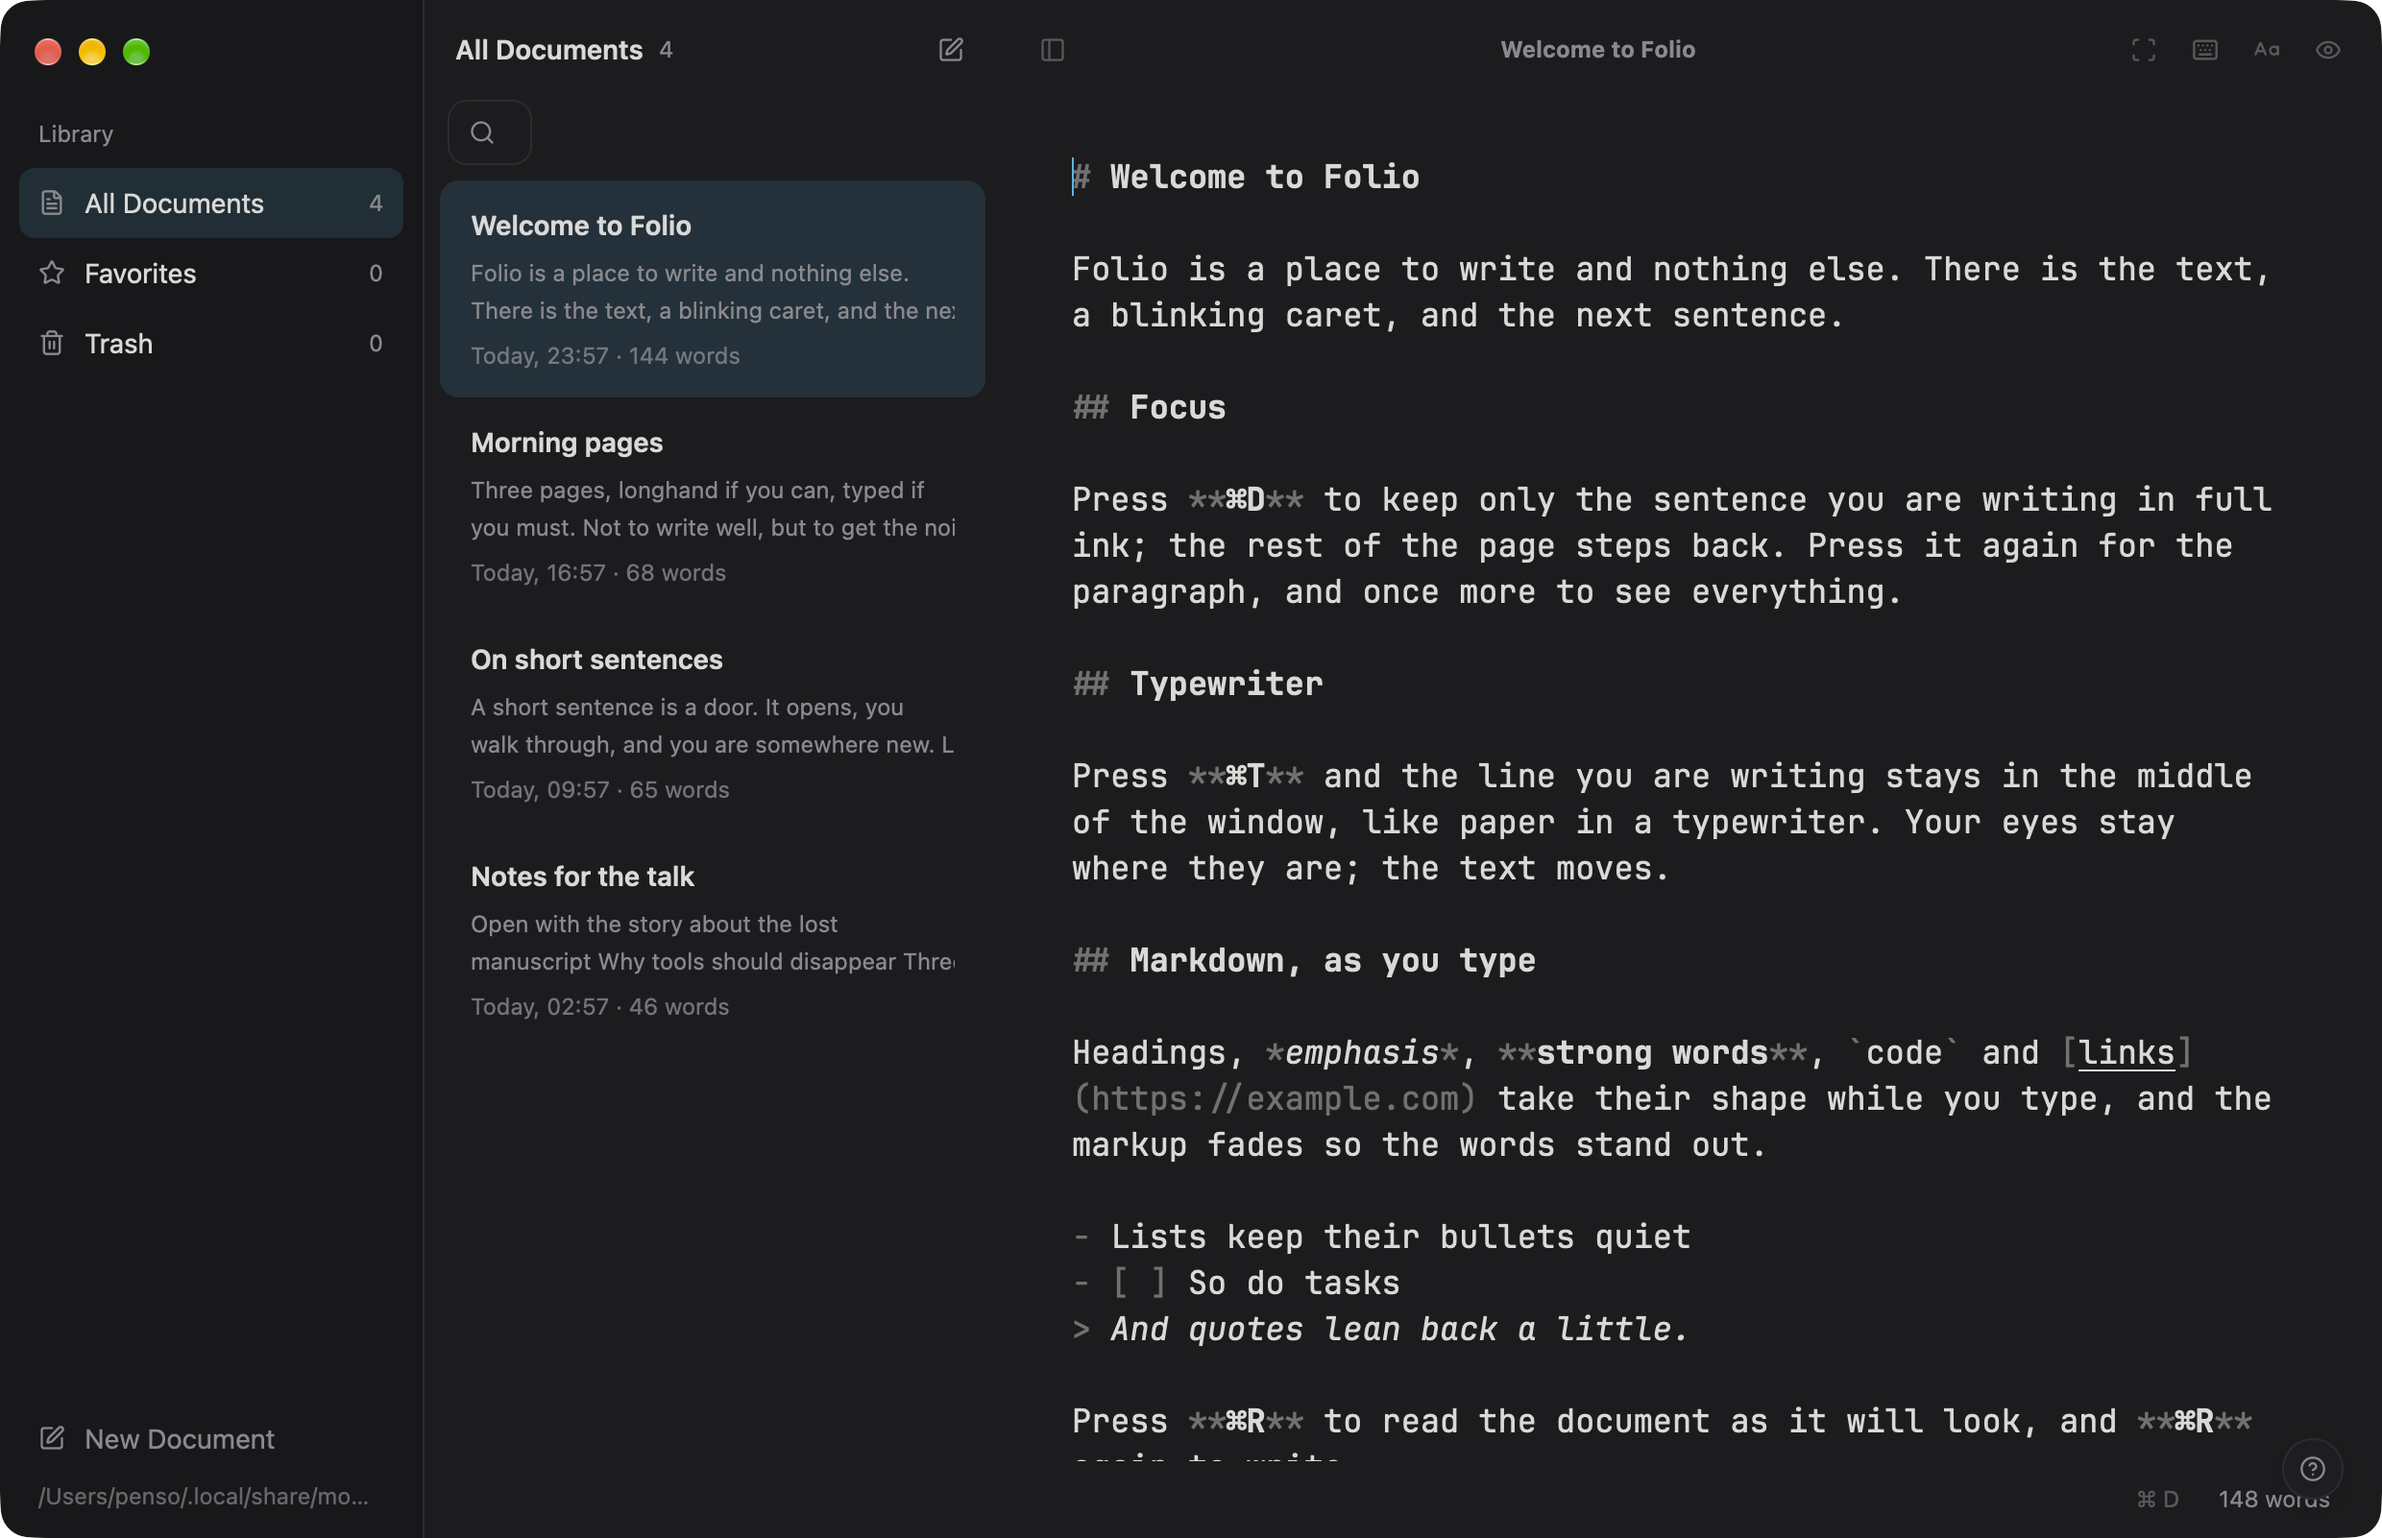
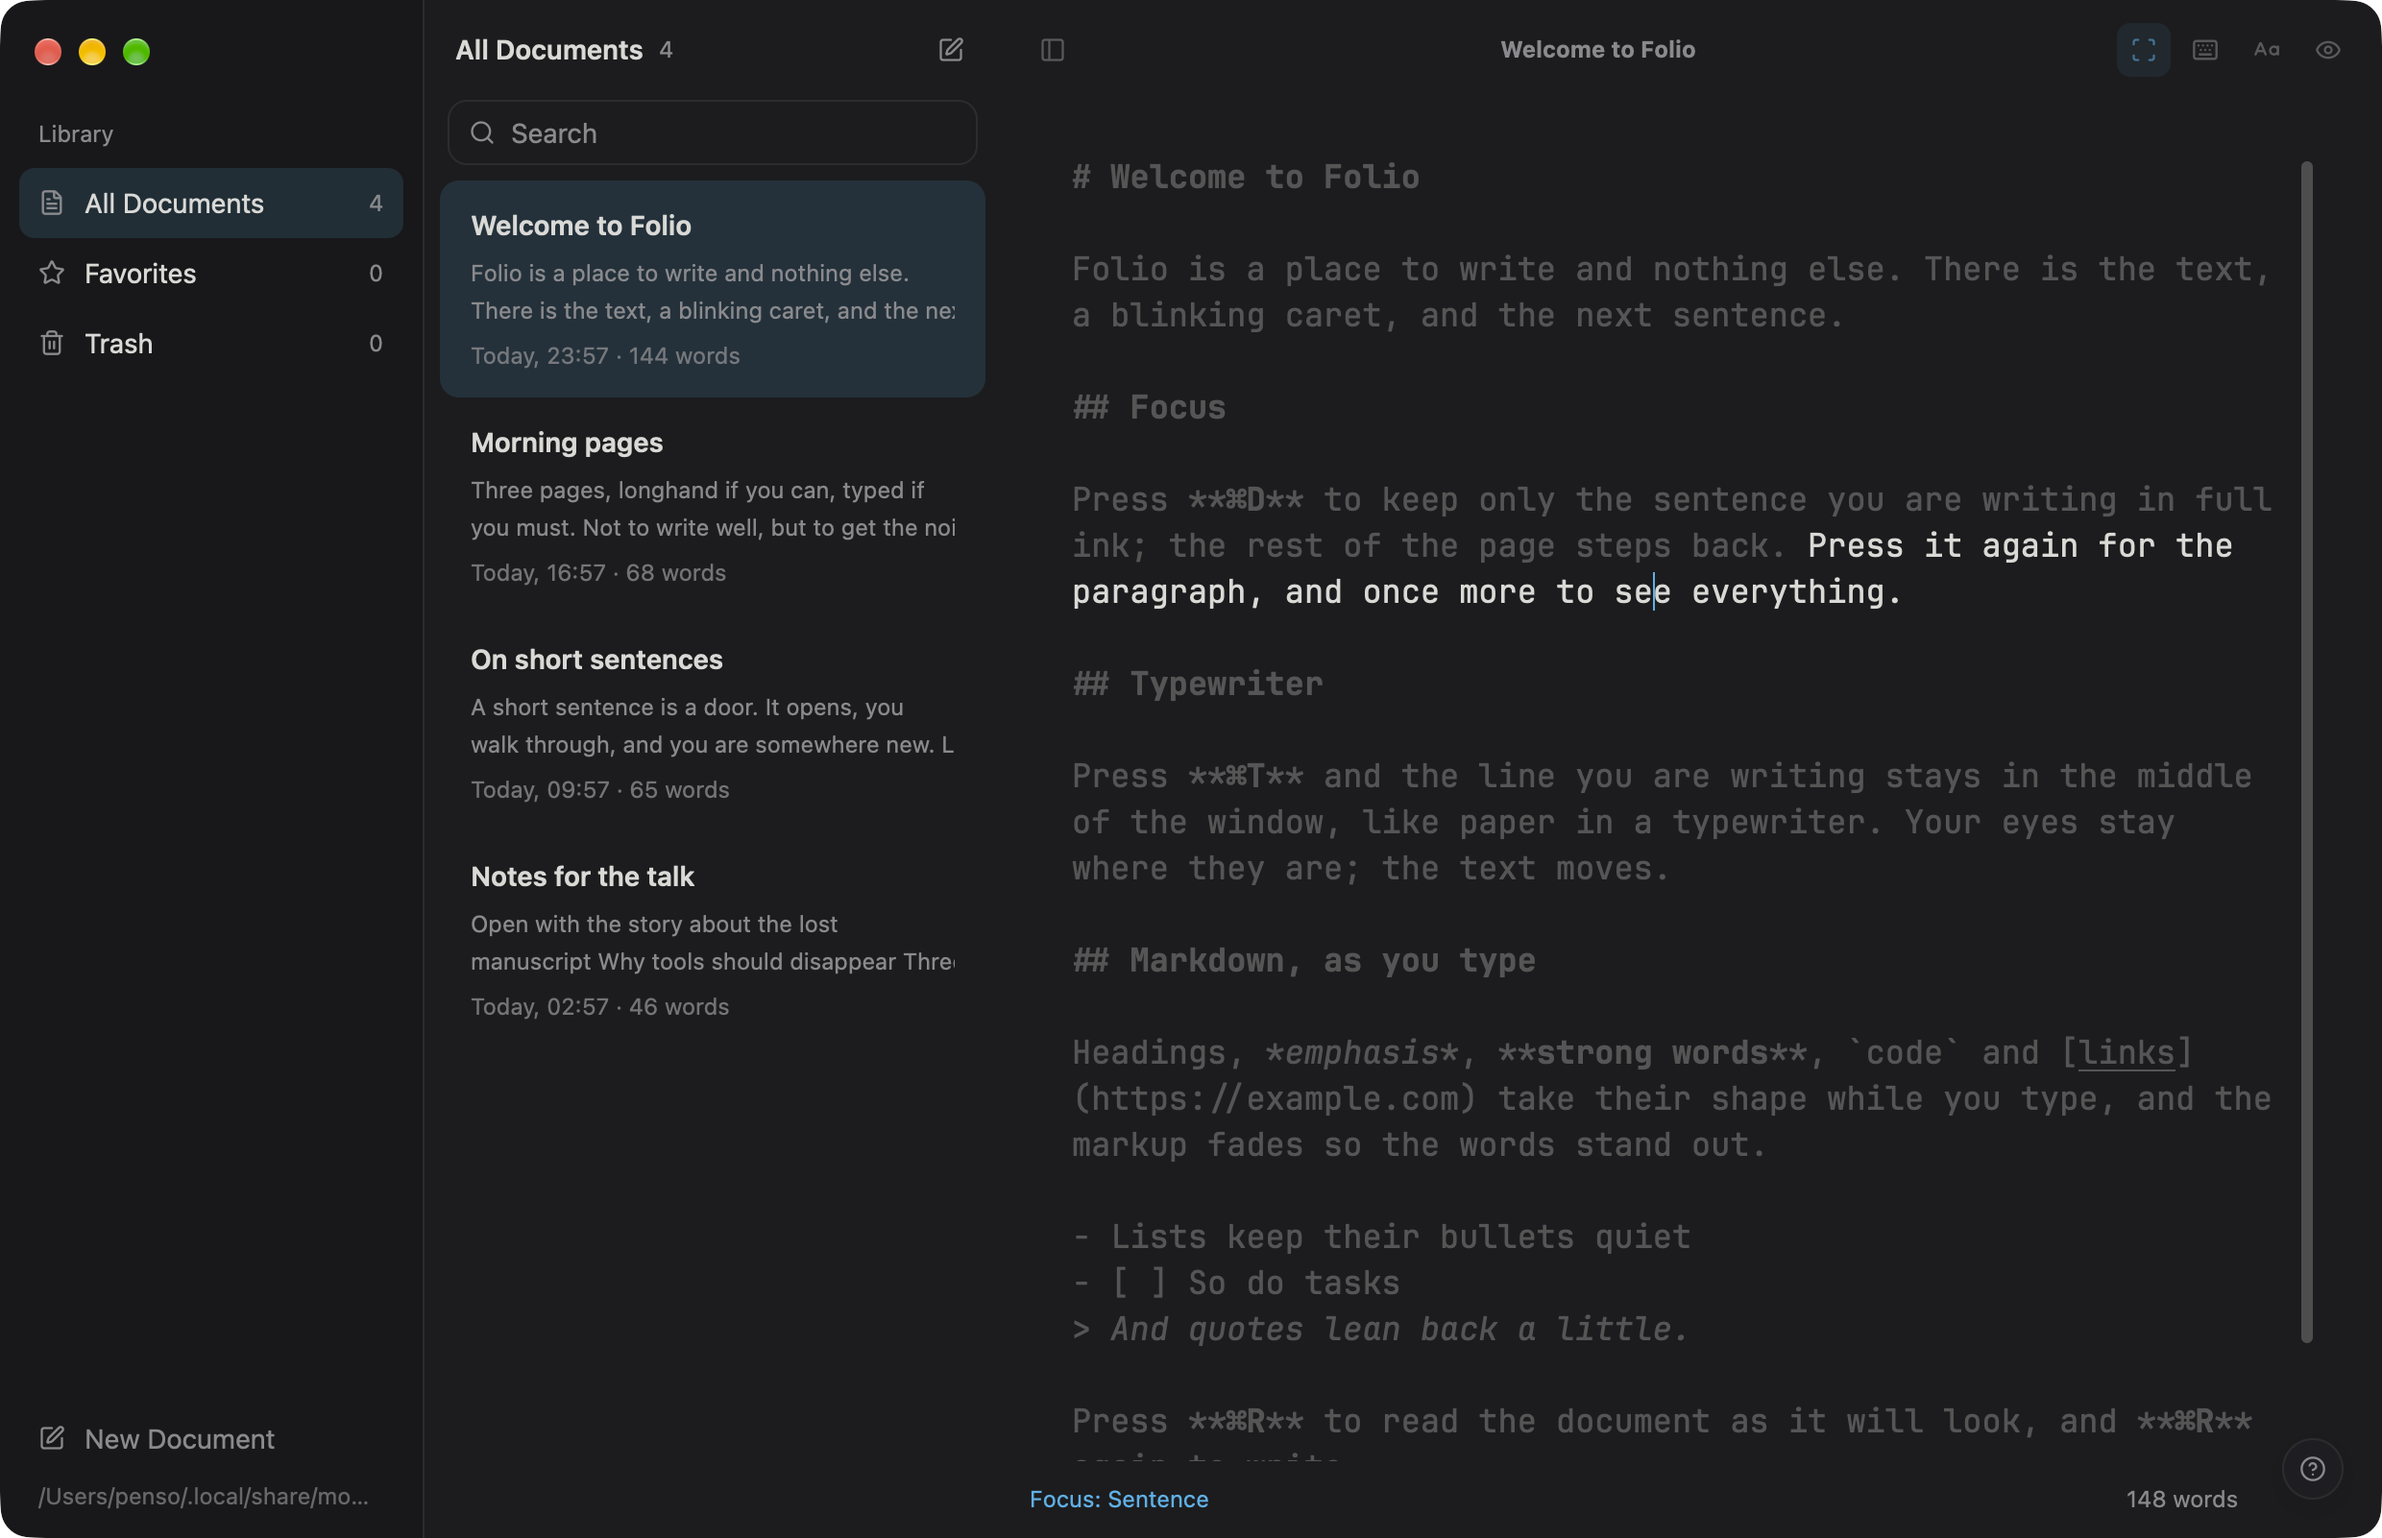
Show Folio among the apps on the website
Plate XXIV: its thumbnail and full picture, focus mode on a sentence.
The README's picture of Folio is now that one too, taken after the
search field and footer were fixed.

diff --git a/website/site/index.html b/website/site/index.html
@@ -652,8 +652,9 @@ const APPS = [
   ["gantry","Gantry","an infra console, in dark monospace"],
   ["hearth","Hearth","a code review bot's analytics"],
   ["storefront","Storefront","a store's admin with its audit log"],
+  ["folio","Folio","a quiet place to write, with focus mode"],
 ];
-const ROMAN = ["I","II","III","IV","V","VI","VII","VIII","IX","X","XI","XII","XIII","XIV","XV","XVI","XVII","XVIII","XIX","XX","XXI","XXII","XXIII"];
+const ROMAN = ["I","II","III","IV","V","VI","VII","VIII","IX","X","XI","XII","XIII","XIV","XV","XVI","XVII","XVIII","XIX","XX","XXI","XXII","XXIII","XXIV"];
 document.getElementById("plates").innerHTML = APPS.map(([id, title, d], i) =>
   `<figure class="plate" data-i="${i}"><img src="img/${id}.webp" alt="${title}" loading="lazy"><p><span>PL. ${ROMAN[i]}</span><b>${title}.</b> ${d[0].toUpperCase() + d.slice(1)}.</p></figure>`).join("");
 
